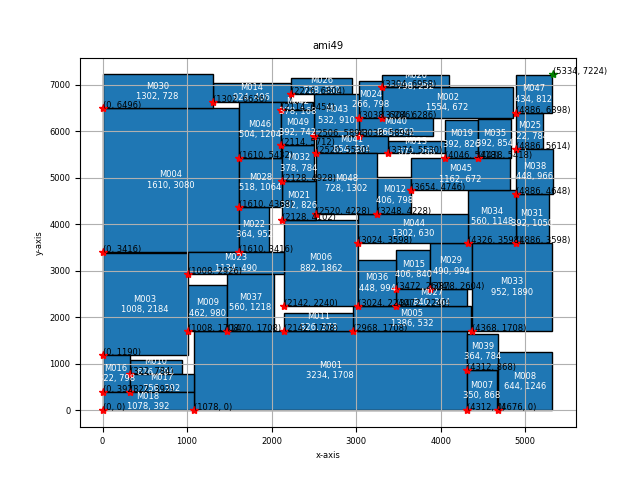
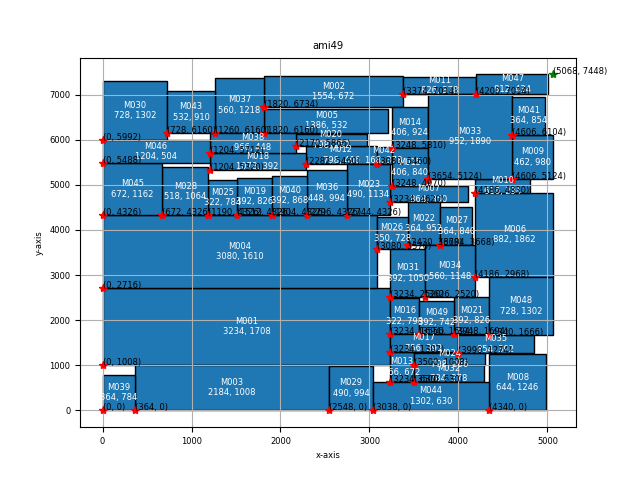
2022-04-10 final version

diff --git a/src/sp.cpp b/src/sp.cpp
@@ -26,8 +26,6 @@ SequencePair::~SequencePair() {
 /* -------------------- solver -------------------- */
 void SequencePair::Solve() {
     this->RandomInitialize();
-    X_.assign(best_X_.begin(), best_X_.end());
-    Y_.assign(best_Y_.begin(), best_Y_.end());
     DEBUG_MSG("RandomInitialize() finished...");
 
     // random
@@ -173,6 +171,7 @@ void SequencePair::Rotate90() {
 
 void SequencePair::RandomInitialize() {
     int w, h;
+    vector<size_t> best_X, best_Y;
     has_legal_ = false;
     // 1st: simply 1 to n, does not care about boundary constraint
     for (int i = 0; i < num_blocks_; ++i) {
@@ -192,8 +191,8 @@ void SequencePair::RandomInitialize() {
     }
     max_width_ = w;
     max_height_ = h;
-    best_X_.assign(X_.begin(), X_.end());
-    best_Y_.assign(Y_.begin(), Y_.end());
+    best_X.assign(X_.begin(), X_.end());
+    best_Y.assign(Y_.begin(), Y_.end());
 
     // random
     random_device rd;
@@ -225,10 +224,13 @@ void SequencePair::RandomInitialize() {
                 continue;
             max_width_ = w;
             max_height_ = h;
-            best_X_.assign(X_.begin(), X_.end());
-            best_Y_.assign(Y_.begin(), Y_.end());
+            best_X.assign(X_.begin(), X_.end());
+            best_Y.assign(Y_.begin(), Y_.end());
         }
     }
+    X_.assign(best_X.begin(), best_X.end());
+    Y_.assign(best_Y.begin(), best_Y.end());
+
 }
 
 int SequencePair::EvaluateSequence(bool mode) {
@@ -255,21 +257,14 @@ int SequencePair::EvaluateSequence(bool mode) {
         if (mode == 0) {
             // x coordinates
             int pos = BUCKL[H->Predecessor(p)];
-            if (block_list_[b]->IsRotate() == false)
-                BUCKL[p] = pos + block_list_[b]->GetWidth();
-            else 
-                BUCKL[p] = pos + block_list_[b]->GetHeight();
+            BUCKL[p] = pos + block_list_[b]->GetWidth();
             block_list_[b]->SetX(pos);
         } else {
             // y coordinates
             int pos = BUCKL[H->Predecessor(p)];
-            if (block_list_[b]->IsRotate() == false)
-                BUCKL[p] = pos + block_list_[b]->GetHeight();
-            else
-                BUCKL[p] = pos + block_list_[b]->GetWidth();
+            BUCKL[p] = pos + block_list_[b]->GetHeight();
             block_list_[b]->SetY(pos);
         }
-        //
         int k = p;
         while (H->Successor(k) != -1) {
             k = H->Successor(k);
@@ -277,7 +272,6 @@ int SequencePair::EvaluateSequence(bool mode) {
                 H->Delete(k);            
         }
     }
-    //
     if (mode == 1) 
         reverse(X_.begin(), X_.end());
 
@@ -445,11 +439,8 @@ void SequencePair::WriteReport(ofstream &fout, double time_taken) {
     for (int i = 0; i < num_blocks_; ++i) {
         Block* b = block_list_[i];
         fout << b->GetName() << " "
-             << b->GetX() << " " << b->GetY() << " ";
-        if (b->IsRotate() == false) 
-            fout << b->GetX() + b->GetWidth() << " " << b->GetY() + b->GetHeight() << " ";
-        else
-            fout << b->GetX() + b->GetHeight() << " " << b->GetY() + b->GetWidth() << " ";
-        fout << endl;
+             << b->GetX() << " " << b->GetY() << " "
+             << b->GetX() + b->GetWidth() << " " << b->GetY() + b->GetHeight() << " "
+             << endl;
     }
 }

diff --git a/src/module.h b/src/module.h
@@ -37,9 +37,8 @@ public:
     ~Block() {}
 
     // get and set
-    bool IsRotate()     const { return rotate_; }
-    size_t GetWidth()   const { return width_; }
-    size_t GetHeight()  const { return height_; }
+    size_t GetWidth()   const { return rotate_ ? height_ : width_; }
+    size_t GetHeight()  const { return rotate_ ? width_ : height_; }
     size_t GetArea()    const { return width_ * height_; }
     double GetCenterX() const { return rotate_? x_ + height_ / 2.0 : x_ + width_ / 2.0; }
     double GetCenterY() const { return rotate_? y_ + width_ / 2.0 : y_ + height_ / 2.0; }

diff --git a/src/sp.h b/src/sp.h
@@ -56,7 +56,6 @@ private:
     // sequence pair    
     bool has_legal_;
     vector<size_t> X_, Y_;
-    vector<size_t> best_X_, best_Y_;
     int max_width_, max_height_;
 };
 
